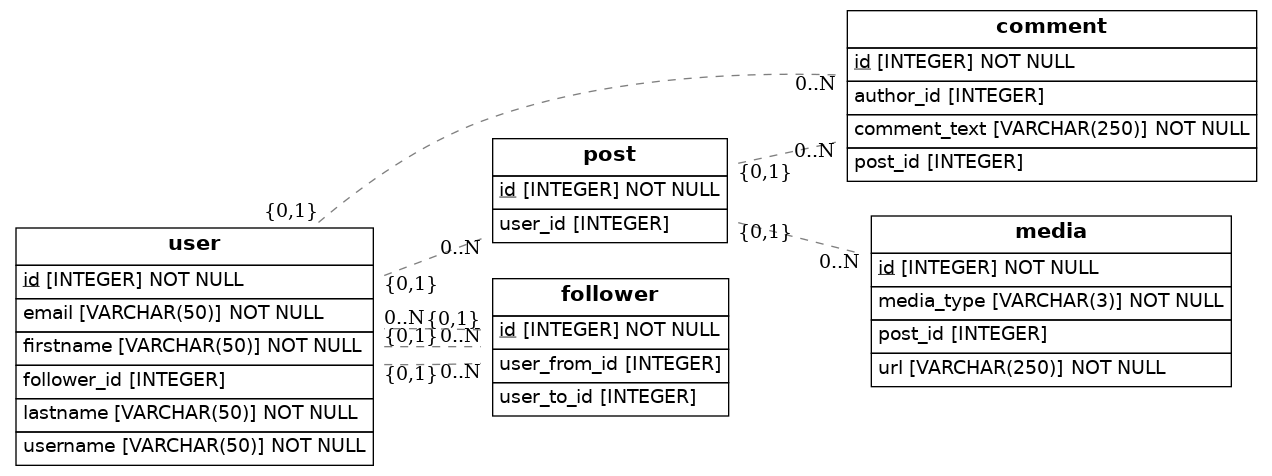
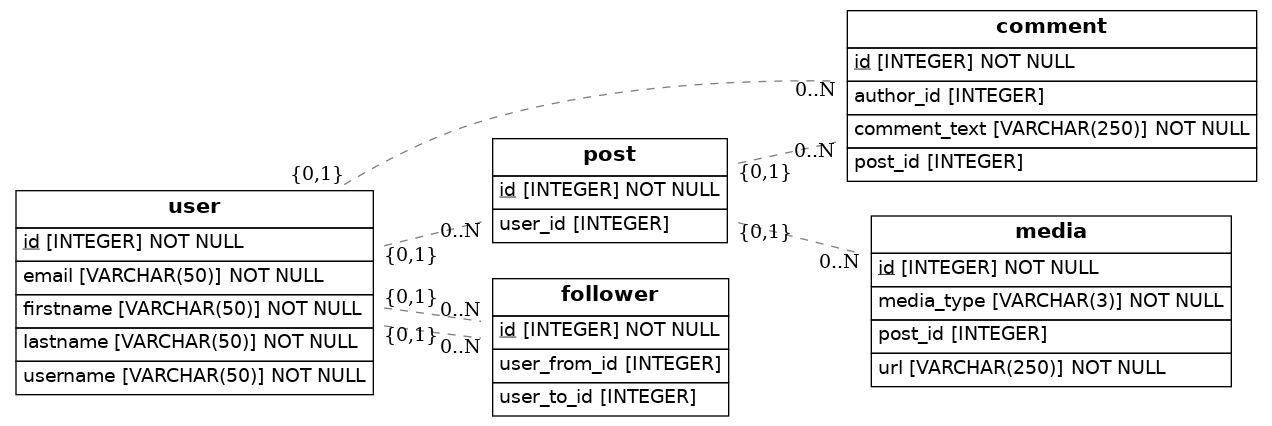
pusheando correctamente

Changed region(s): [[0.0, 0.0, 1.0, 0.9765]]

diff --git a/src/models.py b/src/models.py
@@ -29,6 +29,9 @@ class Post(Base):
     user_id=Column(Integer,ForeignKey('user.id'))
     media=relationship(Media)
     Comment=relationship(Comment)
+    
+
+
 
 class User(Base):
     __tablename__='user'
@@ -37,13 +40,9 @@ class User(Base):
     firstname=Column(String(50),nullable=False)
     lastname=Column(String(50),nullable=False)
     email=Column(String(50),nullable=False)
-    follower_id=Column(Integer,ForeignKey('follower.user_to_id'))
-
+    
     post=relationship(Post)
     comment=relationship(Comment)
-
-
-
 
 class Follower(Base):
     __tablename__='follower'
@@ -51,6 +50,8 @@ class Follower(Base):
     user_to_id=Column(Integer,ForeignKey('user.id'))
     user_from_id=Column(Integer,ForeignKey('user.id'))
     user=relationship(User)
+
+
 
 
 
